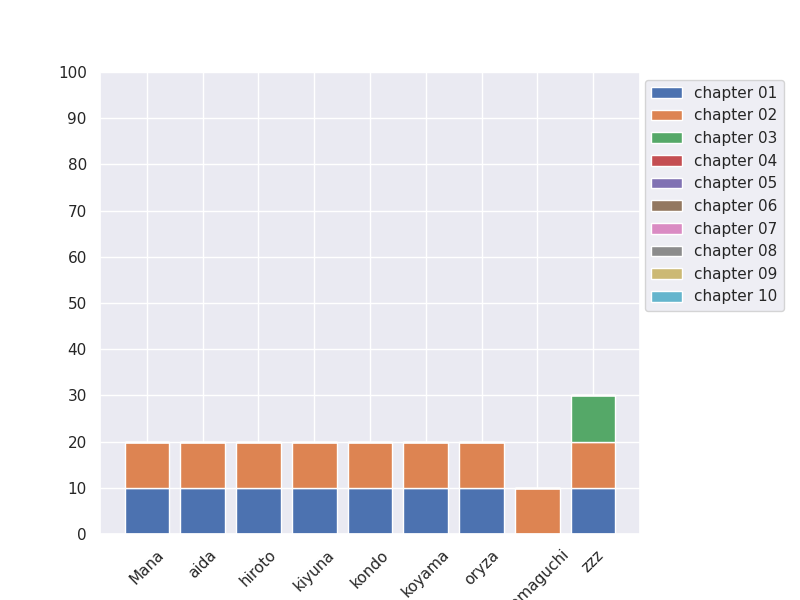
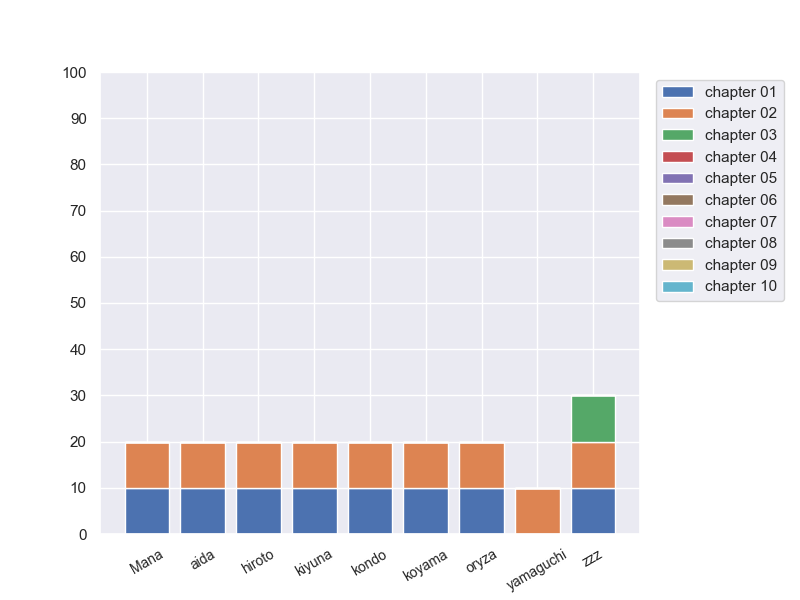
Update make_progress.py

diff --git a/make_progress.py b/make_progress.py
@@ -16,7 +16,9 @@ class User:
 
 def get_progress() -> List[User]:
     cur = Path(".")
-    users = list(filter(lambda x: x.is_dir() and x.name not in IGNORE, sorted(cur.iterdir())))
+    users = list(
+        filter(lambda x: x.is_dir() and x.name not in IGNORE, sorted(cur.iterdir()))
+    )
 
     progress = list()
     # user ごとの progress を取得する
@@ -52,7 +54,7 @@ def plot_progress(users: np.array, scores: np.array):
         )
 
     # グラフの設定
-    plt.xticks(rotation = 45)
+    plt.xticks(rotation=30, fontsize=10)
     # 縦軸のラベルを 10 問刻みにする
     whole = sum(QUESTIONS)
     plt.ylim(0, whole)
